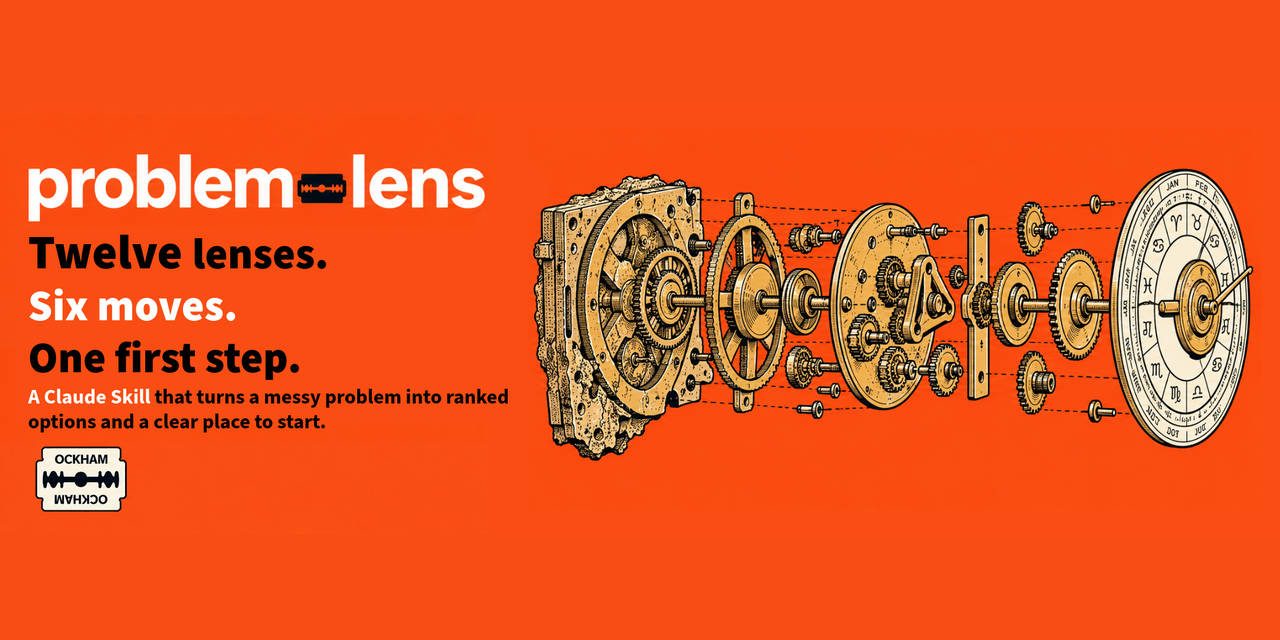
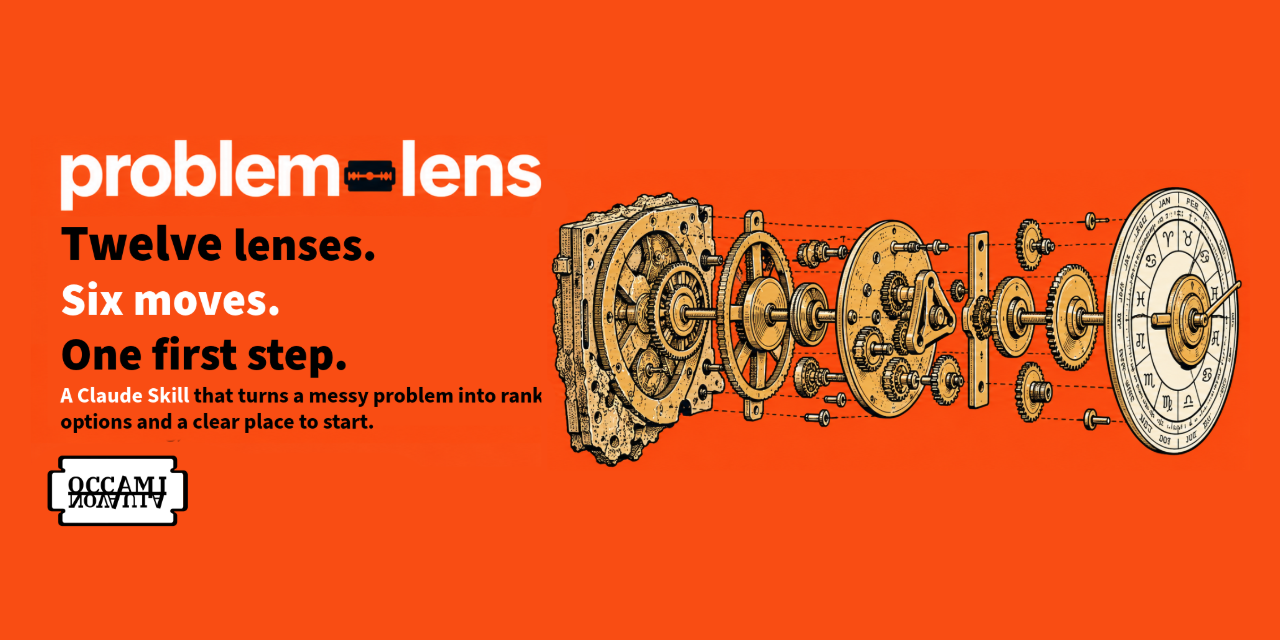
Update README branding assets

Changed region(s): [[0.0, 0.2188, 1.0, 0.8438]]

diff --git a/README.md b/README.md
@@ -1,6 +1,6 @@
 # problem-lens
 
-![problem-lens banner: Twelve lenses. Six moves. One first step.](assets/banner-v2.png)
+![problem-lens banner](assets/banner-v2.png)
 
 ![Version](https://img.shields.io/badge/version-1.2.0-blue)
 ![License](https://img.shields.io/badge/license-MIT-green)
@@ -190,3 +190,5 @@ See [`CONTRIBUTING.md`](CONTRIBUTING.md). To report a problem or suggest an addi
 ## License
 
 MIT. See `LICENSE`.
+
+![OCCAMI](assets/footer.png)
